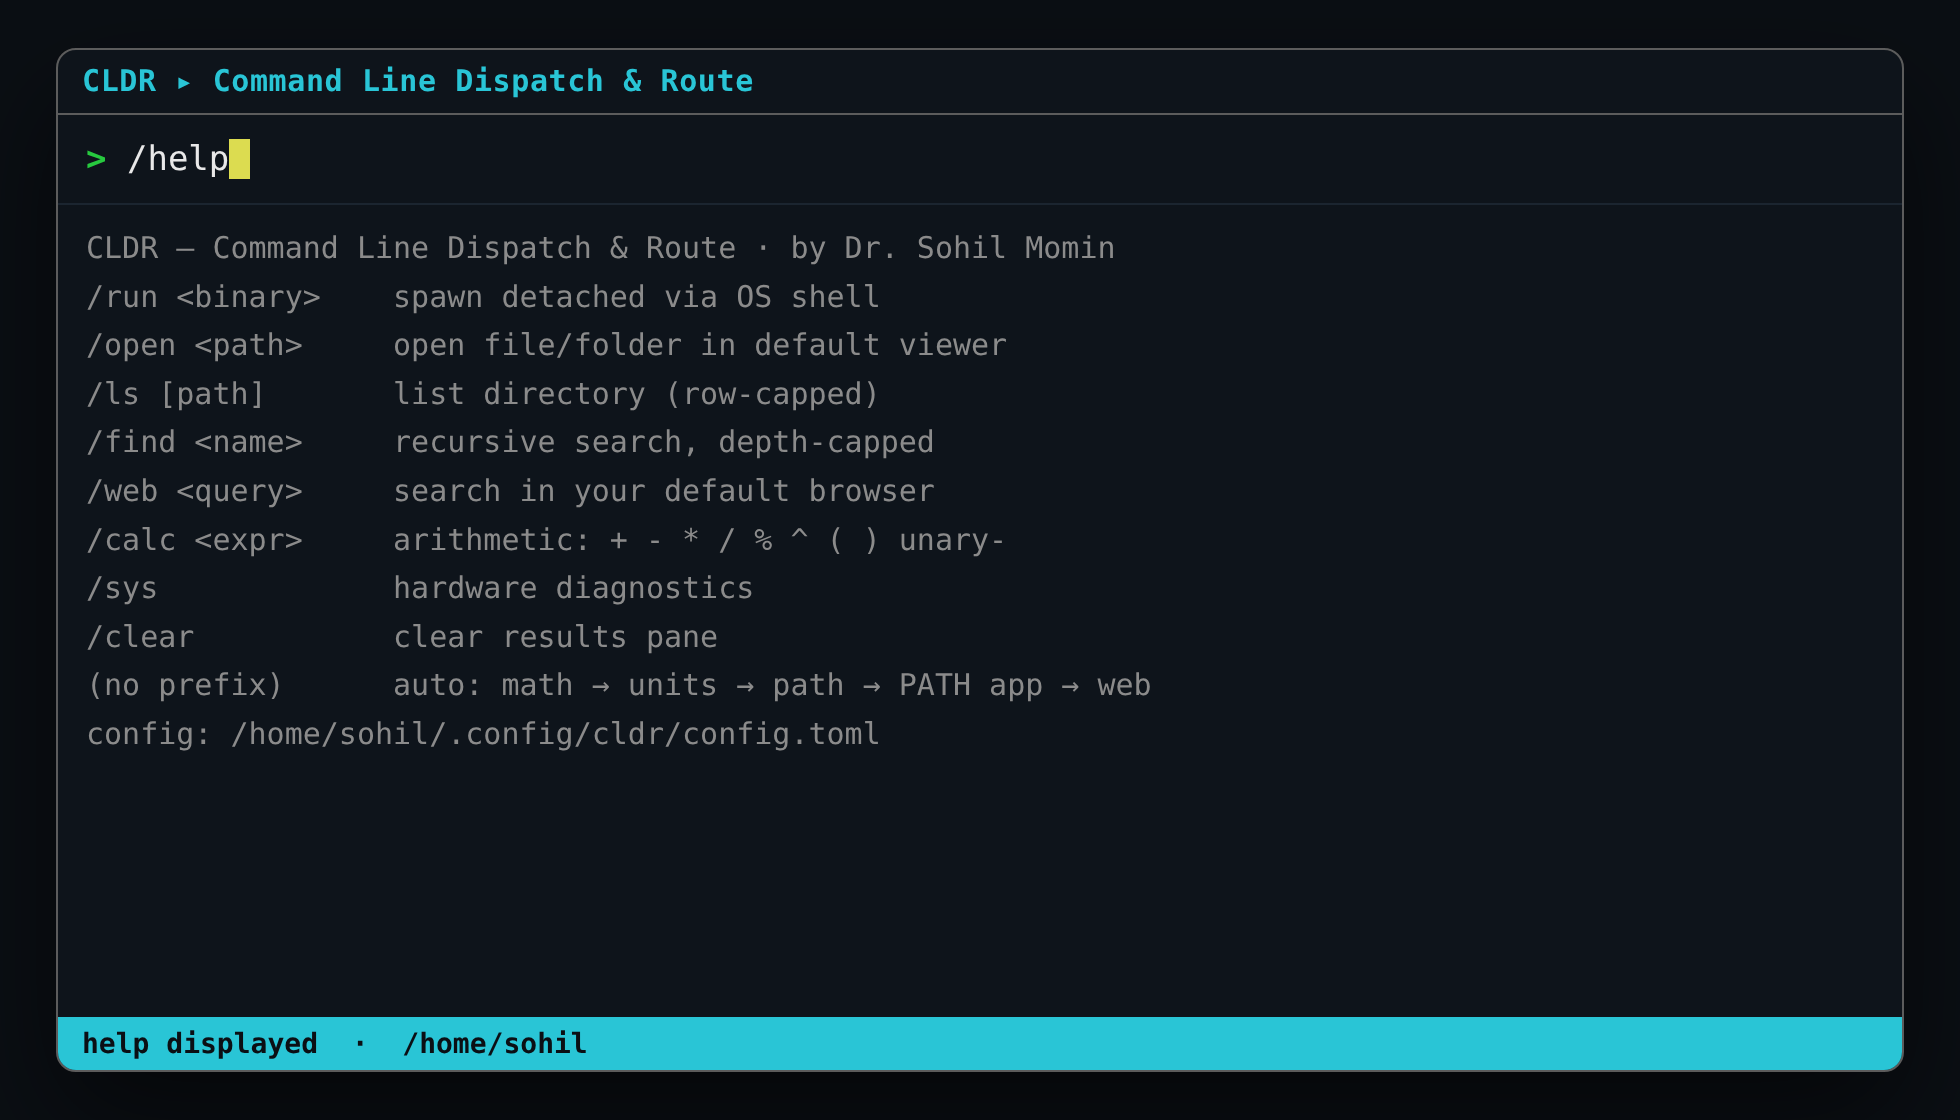
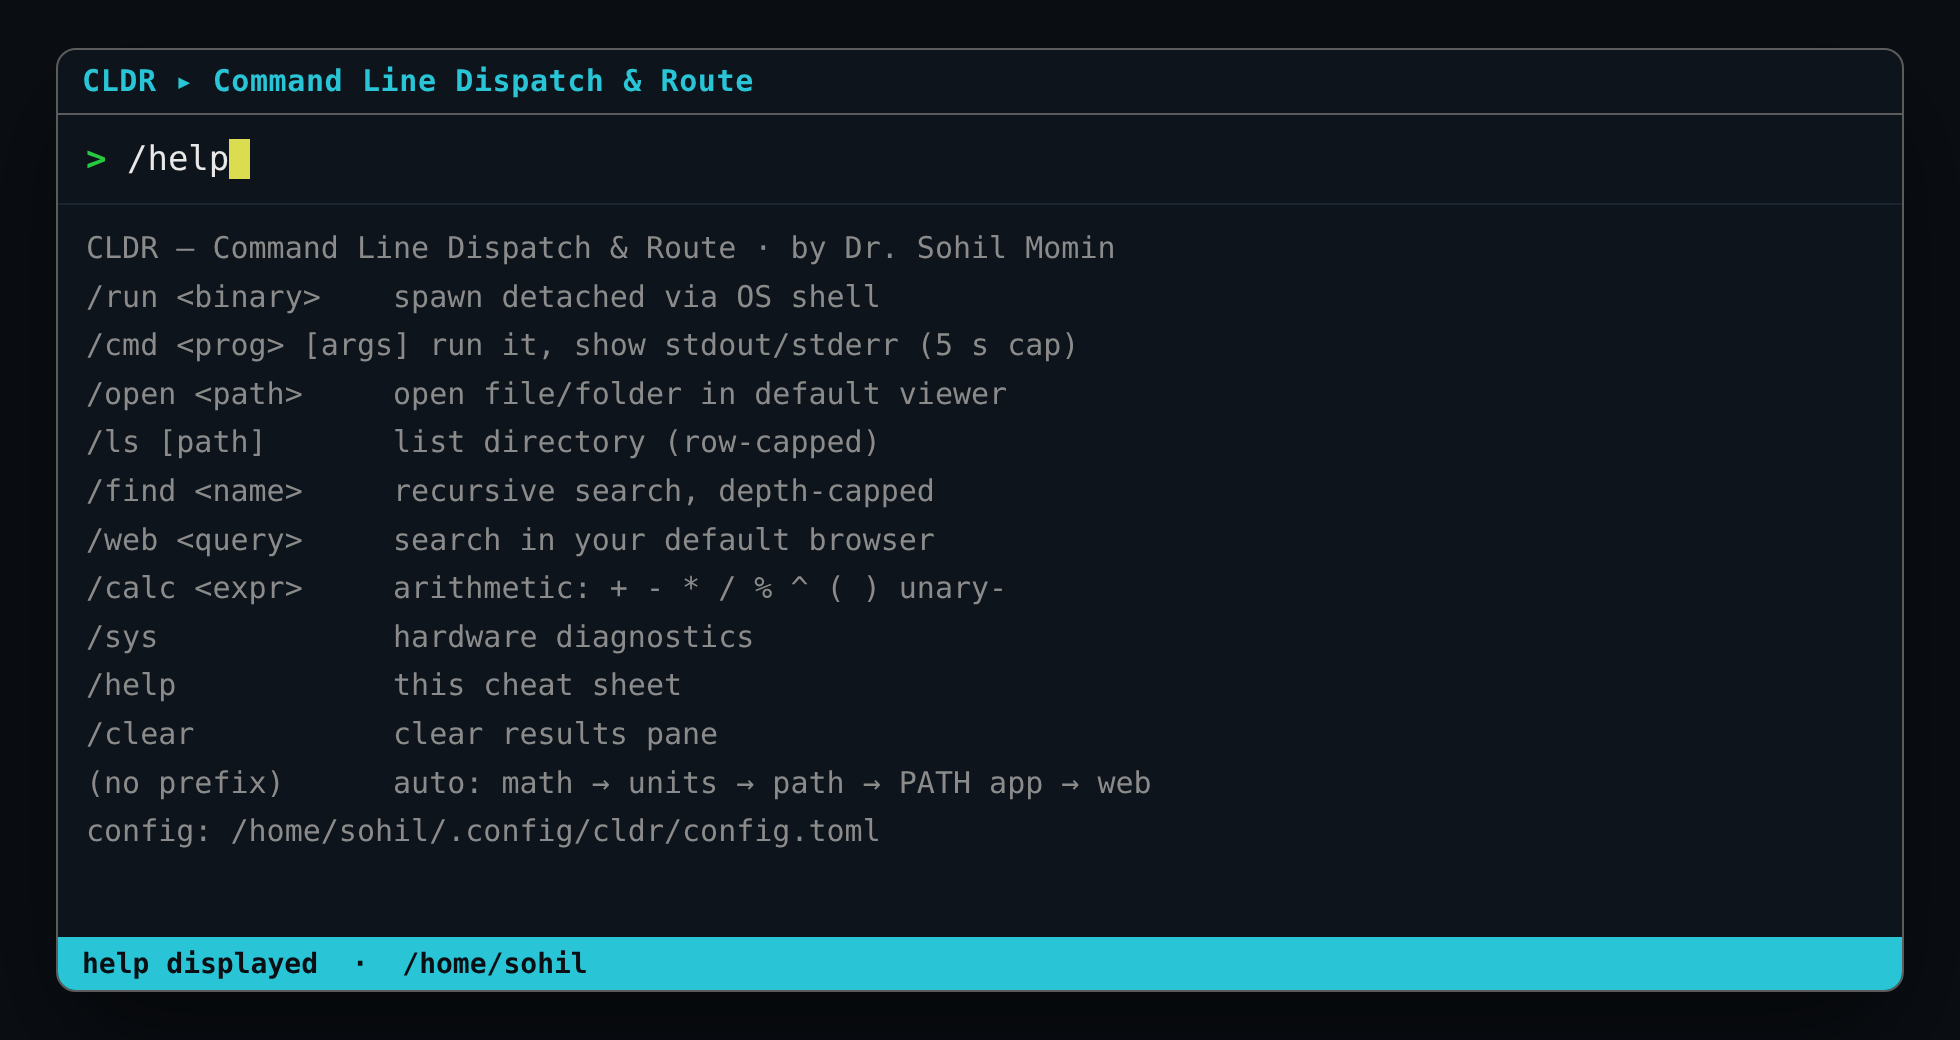
docs(landing): add /cmd to the site, and refresh the help screenshot
The landing page still listed nine commands while the app had ten. Adds
/cmd to both the feature card and the command table.

docs/index.html is class `generated` in MANIFEST.json, so its recorded
blob sha was refreshed with the repo's own tool:

    python3 tools/manifest.py record docs/index.html --producer manual@2026-11-07

which keeps class=generated and leaves the manifest check clean rather
than reporting committed-drift.

The help screenshot was rendered from the shipped 1.3.1 binary's real
/help output, so it now matches the app instead of predating /cmd.

diff --git a/docs/index.html b/docs/index.html
@@ -469,7 +469,7 @@
         <span class="tag">05</span>
         <svg class="ico" aria-hidden="true"><use href="#i-slash"/></svg>
         <h3>Slash commands</h3>
-        <p><code>/run</code> <code>/open</code> <code>/ls</code> <code>/find</code> <code>/web</code> <code>/calc</code> <code>/sys</code> <code>/help</code> <code>/clear</code>.</p>
+        <p><code>/run</code> <code>/cmd</code> <code>/open</code> <code>/ls</code> <code>/find</code> <code>/web</code> <code>/calc</code> <code>/sys</code> <code>/help</code> <code>/clear</code>.</p>
       </article>
       <article class="card reveal">
         <span class="tag">06</span>
@@ -587,6 +587,7 @@
           <thead><tr><th>Command</th><th>Description</th></tr></thead>
           <tbody>
             <tr><td>/run &lt;binary&gt;</td><td>spawn detached via the OS shell</td></tr>
+            <tr><td>/cmd &lt;prog&gt; [args]</td><td>run it, wait, show stdout/stderr and exit code</td></tr>
             <tr><td>/open &lt;path&gt;</td><td>open a file/folder in the default viewer</td></tr>
             <tr><td>/ls [path]</td><td>list a directory (row-capped)</td></tr>
             <tr><td>/find &lt;name&gt;</td><td>recursive search (depth-capped)</td></tr>
